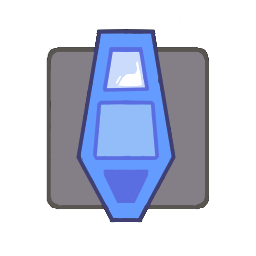
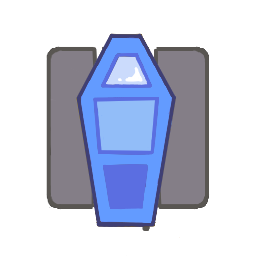
grafiken einbinden + players

diff --git a/pc/assets/img/Player/Player.tsx b/pc/assets/img/Player/Player.tsx
@@ -1,18 +1,6 @@
 <?xml version="1.0" encoding="UTF-8"?>
 <tileset version="1.10" tiledversion="1.10.1" name="Player" tilewidth="256" tileheight="256" tilecount="9" columns="0">
  <grid orientation="orthogonal" width="1" height="1"/>
- <tile id="0">
-  <image width="256" height="256" source="player1_car.png"/>
- </tile>
- <tile id="1">
-  <image width="256" height="256" source="player2_car.png"/>
- </tile>
- <tile id="2">
-  <image width="256" height="256" source="player3_car.png"/>
- </tile>
- <tile id="3">
-  <image width="256" height="256" source="player4_car.png"/>
- </tile>
  <tile id="4">
   <image width="256" height="256" source="goal.png"/>
  </tile>
@@ -27,5 +15,17 @@
  </tile>
  <tile id="8">
   <image width="256" height="256" source="player4_goal.png"/>
+ </tile>
+ <tile id="13">
+  <image width="256" height="256" source="player1_car.png"/>
+ </tile>
+ <tile id="14">
+  <image width="256" height="256" source="player2_car.png"/>
+ </tile>
+ <tile id="15">
+  <image width="256" height="256" source="player3_car.png"/>
+ </tile>
+ <tile id="16">
+  <image width="256" height="256" source="player4_car.png"/>
  </tile>
 </tileset>

diff --git a/pc/src/assets.rs b/pc/src/assets.rs
@@ -79,7 +79,7 @@ pub(crate) static LEVELS: Lazy<Vec<&str>> = Lazy::new(|| {
 		include_map!("pc/assets/level/002.tmx"),
 		include_map!("pc/assets/level/003.tmx"),
 		include_map!("pc/assets/level/004.tmx"),
-		include_map!("pc/assets/level/005.tmx"),
+		include_map!("pc/assets/level/005.tmx")
 	]
 });
 
@@ -97,7 +97,15 @@ pub(crate) struct Textures {
 	pub(crate) half_grass_sand: Texture2D,
 	pub(crate) sand: Texture2D,
 	pub(crate) sand_corner_grass: Texture2D,
+	pub(crate) sand_double_corner_grass: Texture2D,
+	pub(crate) grass_double_corner_sand: Texture2D,
+	pub(crate) strange_grass: Texture2D,
+	pub(crate) strange_grass_corner: Texture2D,
+	pub(crate) strange_grass_inner_corner: Texture2D,
+	pub(crate) strange_grass_half: Texture2D,
+	pub(crate) strange_grass_double_corner: Texture2D,
 	pub(crate) stone: Texture2D,
+	pub(crate) strange_stone: Texture2D,
 	pub(crate) player1_car: Texture2D,
 	pub(crate) player2_car: Texture2D,
 	pub(crate) player3_car: Texture2D,
@@ -139,8 +147,40 @@ impl Textures {
 				include_bytes!("../assets/img/BaseTiles/sand_corner_grass.png"),
 				Some(ImageFormat::Png)
 			),
+			sand_double_corner_grass: Texture2D::from_file_with_format(
+				include_bytes!("../assets/img/BaseTiles/sand_double_corner_grass.png"),
+				Some(ImageFormat::Png)
+			),
+			grass_double_corner_sand: Texture2D::from_file_with_format(
+				include_bytes!("../assets/img/BaseTiles/grass_double_corner_sand.png"),
+				Some(ImageFormat::Png)
+			),
+			strange_grass: Texture2D::from_file_with_format(
+				include_bytes!("../assets/img/BaseTiles/strange_grass.png"),
+				Some(ImageFormat::Png)
+			),
+			strange_grass_corner: Texture2D::from_file_with_format(
+				include_bytes!("../assets/img/BaseTiles/strange_grass_corner.png"),
+				Some(ImageFormat::Png)
+			),
+			strange_grass_inner_corner: Texture2D::from_file_with_format(
+				include_bytes!("../assets/img/BaseTiles/strange_grass_inner_corner.png"),
+				Some(ImageFormat::Png)
+			),
+			strange_grass_double_corner: Texture2D::from_file_with_format(
+				include_bytes!("../assets/img/BaseTiles/strange_grass_double_corner.png"),
+				Some(ImageFormat::Png)
+			),
+			strange_grass_half: Texture2D::from_file_with_format(
+				include_bytes!("../assets/img/BaseTiles/strange_grass_half.png"),
+				Some(ImageFormat::Png)
+			),
 			stone: Texture2D::from_file_with_format(
 				include_bytes!("../assets/img/ObjectTiles/stone.png"),
+				Some(ImageFormat::Png)
+			),
+			strange_stone: Texture2D::from_file_with_format(
+				include_bytes!("../assets/img/ObjectTiles/strange_stone.png"),
 				Some(ImageFormat::Png)
 			),
 			player1_car: Texture2D::from_file_with_format(

diff --git a/map/src/tiles.rs b/map/src/tiles.rs
@@ -33,7 +33,14 @@ pub enum MapBaseTile {
 	GrassCornerSand = 1,
 	HalfGrassSand = 2,
 	Sand = 3,
-	SandCornerGrass = 4
+	SandCornerGrass = 4,
+	GrassDoubleCorner = 5,
+	SandDoubleCorner = 6,
+	StrangeGrass = 7,
+	StrangeOuterCorner = 8,
+	StrangeDoubleCorner = 9,
+	StrangeHalf = 10,
+	StrangeInnerCorner = 11
 }
 
 impl Passable for MapBaseTile {
@@ -43,7 +50,14 @@ impl Passable for MapBaseTile {
 			Self::GrassCornerSand => true,
 			Self::HalfGrassSand => true,
 			Self::Sand => true,
-			Self::SandCornerGrass => true
+			Self::SandCornerGrass => true,
+			Self::SandDoubleCorner => true,
+			Self::GrassDoubleCorner => true,
+			Self::StrangeGrass => true,
+			Self::StrangeOuterCorner => true,
+			Self::StrangeInnerCorner => true,
+			Self::StrangeHalf => true,
+			Self::StrangeDoubleCorner => true
 		}
 	}
 }
@@ -71,12 +85,14 @@ impl<'a> TryFrom<&tiled::LayerTile<'a>> for MapBaseTile {
 pub enum ObjectTile {
 	//numbers must match them from the Tiled tilesets
 	Stone = 1
+	StrangeStone = 2
 }
 
 impl Passable for ObjectTile {
 	fn passable(&self) -> bool {
 		match self {
-			Self::Stone => false
+			Self::Stone => false,
+			Self::StrangeStone => false
 		}
 	}
 }
